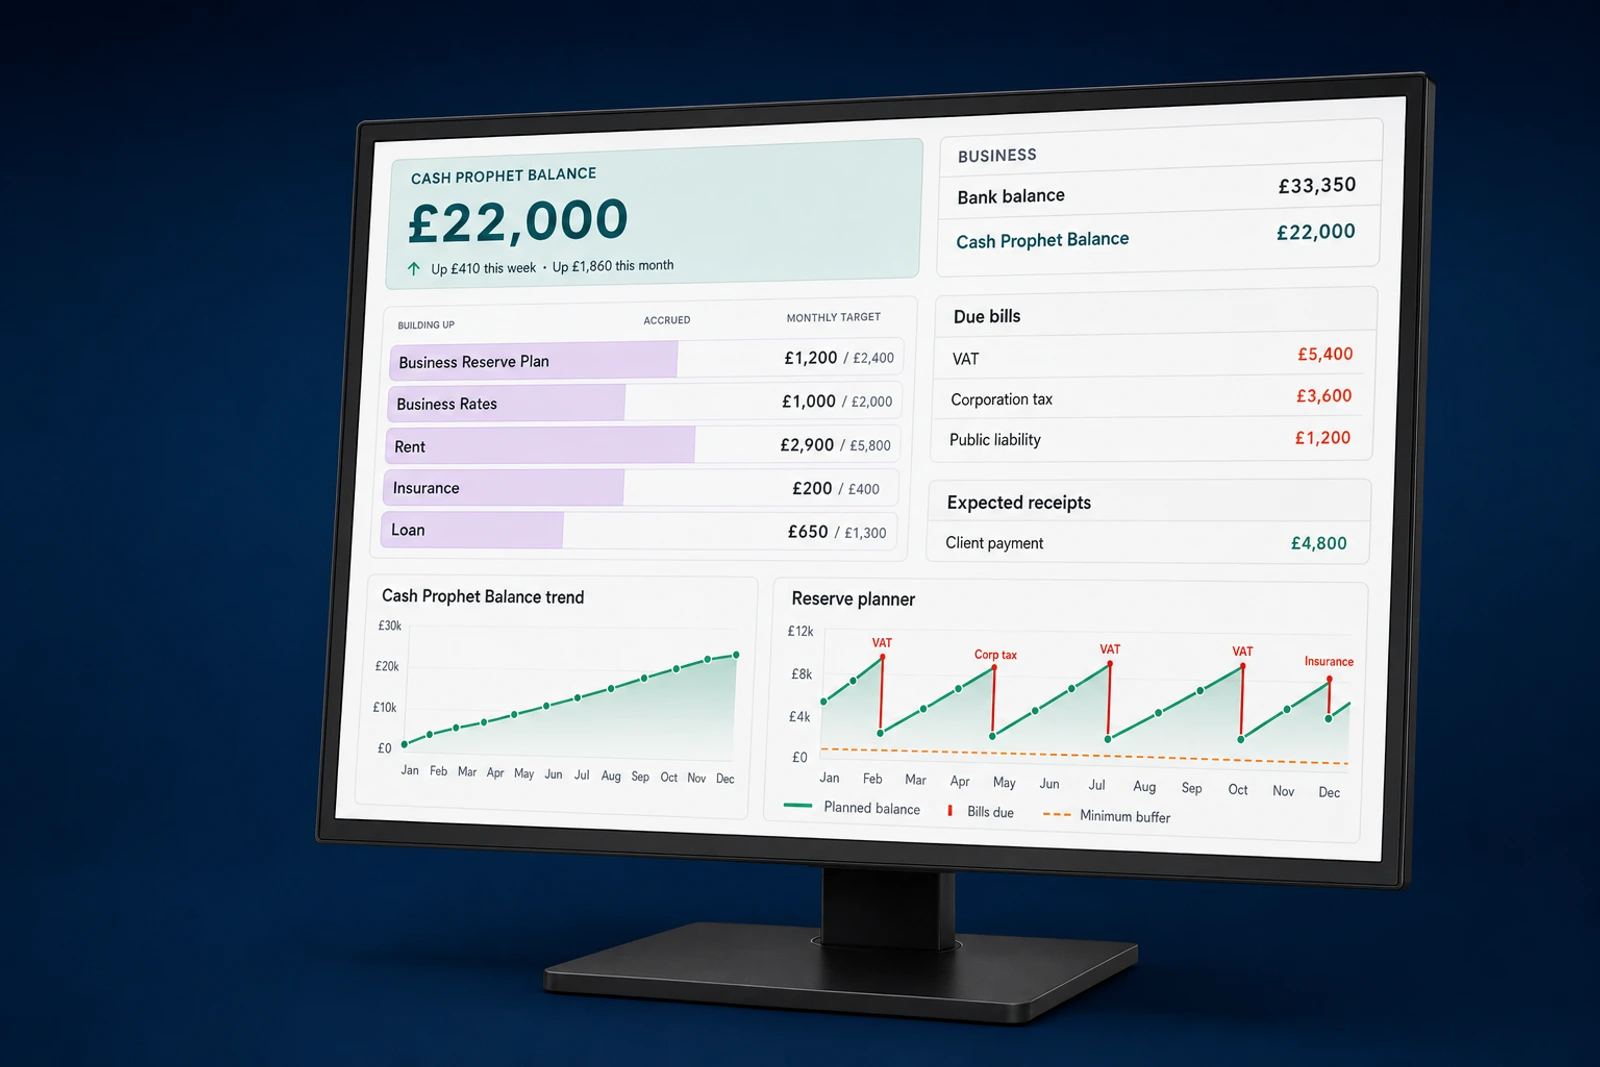
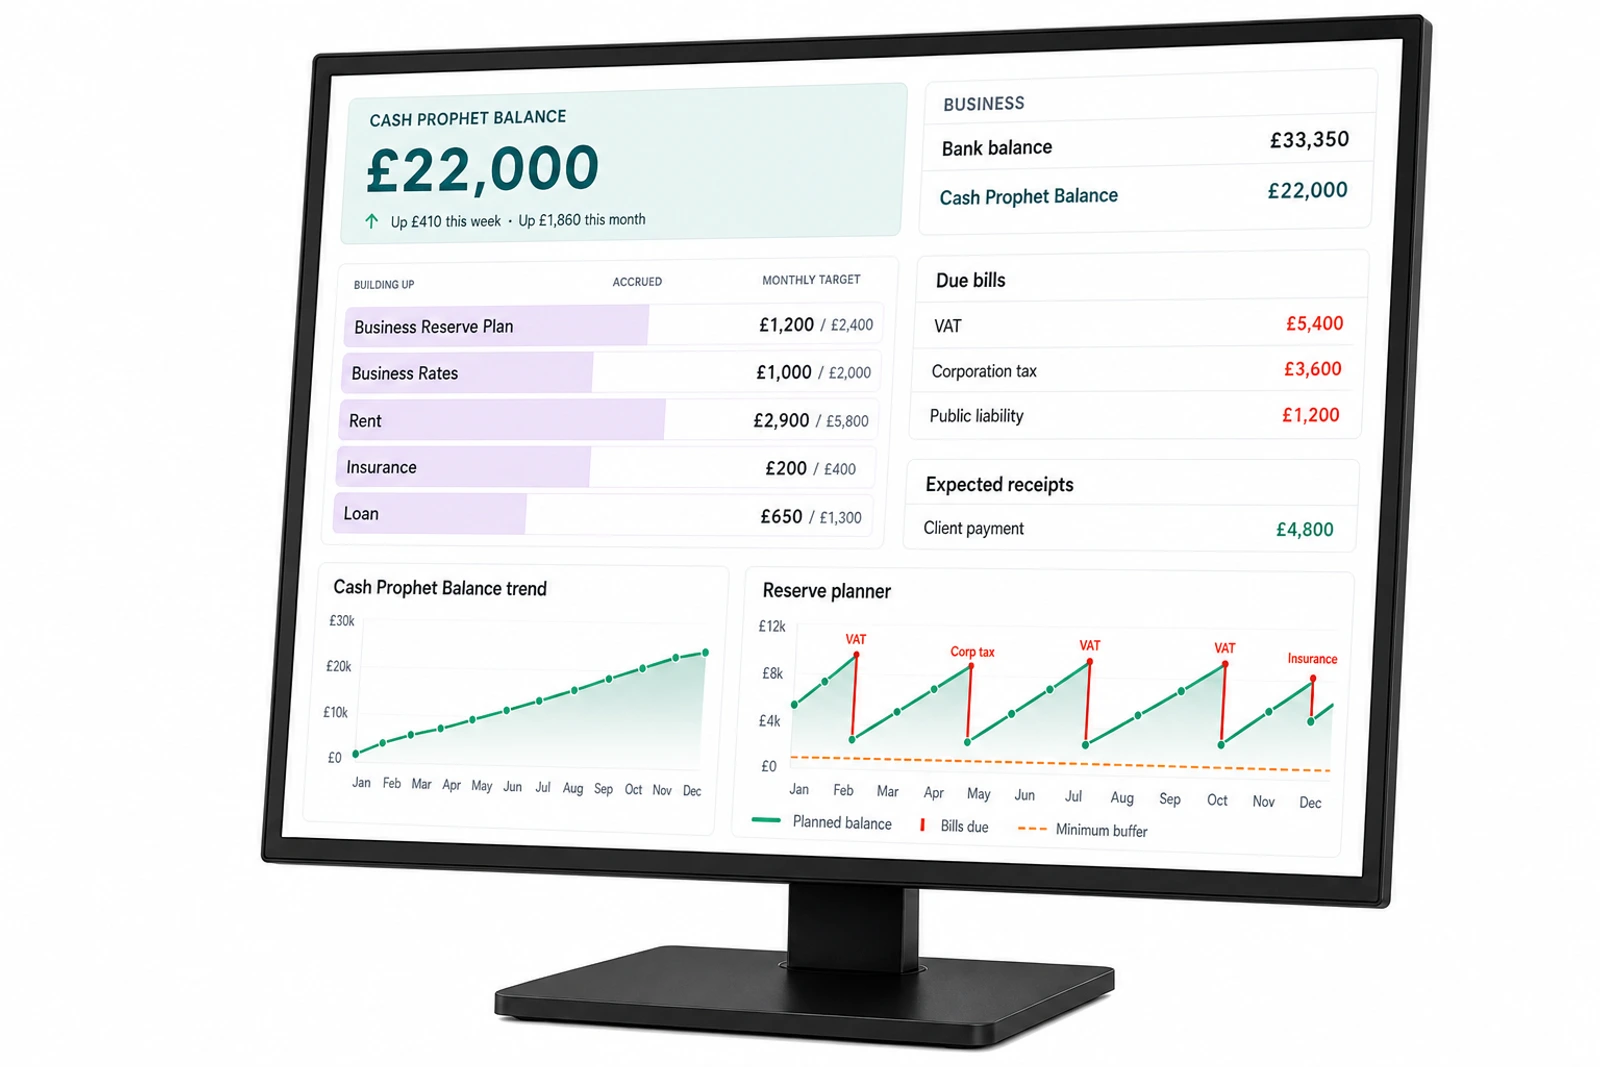
Cut out monitor on transparent background; drop homepage snapshot copy.

diff --git a/src/components/marketing/HomeHeroVideo.tsx b/src/components/marketing/HomeHeroVideo.tsx
@@ -1,5 +1,4 @@
 import { CanonicalLink } from '../CanonicalLink'
-import { HOME_VIDEO } from '../../content/homePage'
 import {
   PRODUCT_MONITOR_IMAGE,
   PRODUCT_MONITOR_IMAGE_ALT,
@@ -10,8 +9,8 @@ import { getVideoLabel, getVideoUrl } from '../../content/videos'
 import { toVideoEmbedUrl } from '../../utils/videoEmbed'
 
 /**
- * Homepage product snapshot band. Shows the monitor product shot until a
- * homepage walkthrough video URL is published.
+ * Homepage product snapshot: monitor image + CTAs (no descriptive copy).
+ * Swaps to the walkthrough video when a homepage video URL is published.
  */
 export function HomeHeroVideo() {
   const url = getVideoUrl('homepage')
@@ -21,13 +20,9 @@ export function HomeHeroVideo() {
     <section
       className="home-band home-band--video home-band--mist"
       id="see-cash-prophet"
-      aria-labelledby="home-video-heading"
+      aria-label="Cash Prophet dashboard"
     >
       <div className="marketing-section-inner marketing-section-inner--home home-band-stack">
-        <div className="home-band-head home-band-head--center home-video-head">
-          <h2 id="home-video-heading">{HOME_VIDEO.heading}</h2>
-          <p className="home-video-lead">{HOME_VIDEO.lead}</p>
-        </div>
         <div className={`home-video-frame${url ? '' : ' home-video-frame--snapshot'}`}>
           {url ? (
             <iframe

diff --git a/src/index.css b/src/index.css
@@ -15647,15 +15647,17 @@ tr.sheet-row--received td {
 .method-edu-hero-split-visual {
   margin: 0;
   justify-self: end;
-  max-width: 34rem;
+  max-width: 38rem;
   width: 100%;
+  background: transparent;
 }
 
 .method-edu-hero-split-visual img {
   display: block;
   width: 100%;
   height: auto;
-  border-radius: 12px;
+  border-radius: 0;
+  background: transparent;
 }
 
 .method-edu-hero-split-caption {
@@ -27891,7 +27893,7 @@ body.setup-onboarding-spotlight-active [data-onboarding-focus='true'] {
 }
 
 .home-video-frame--snapshot {
-  width: min(100%, 44rem);
+  width: min(100%, 52rem);
   aspect-ratio: auto;
   background: transparent;
   border: none;
@@ -27907,7 +27909,8 @@ body.setup-onboarding-spotlight-active [data-onboarding-focus='true'] {
   display: block;
   width: 100%;
   height: auto;
-  border-radius: 12px;
+  border-radius: 0;
+  background: transparent;
 }
 
 .home-video-snapshot-actions {
